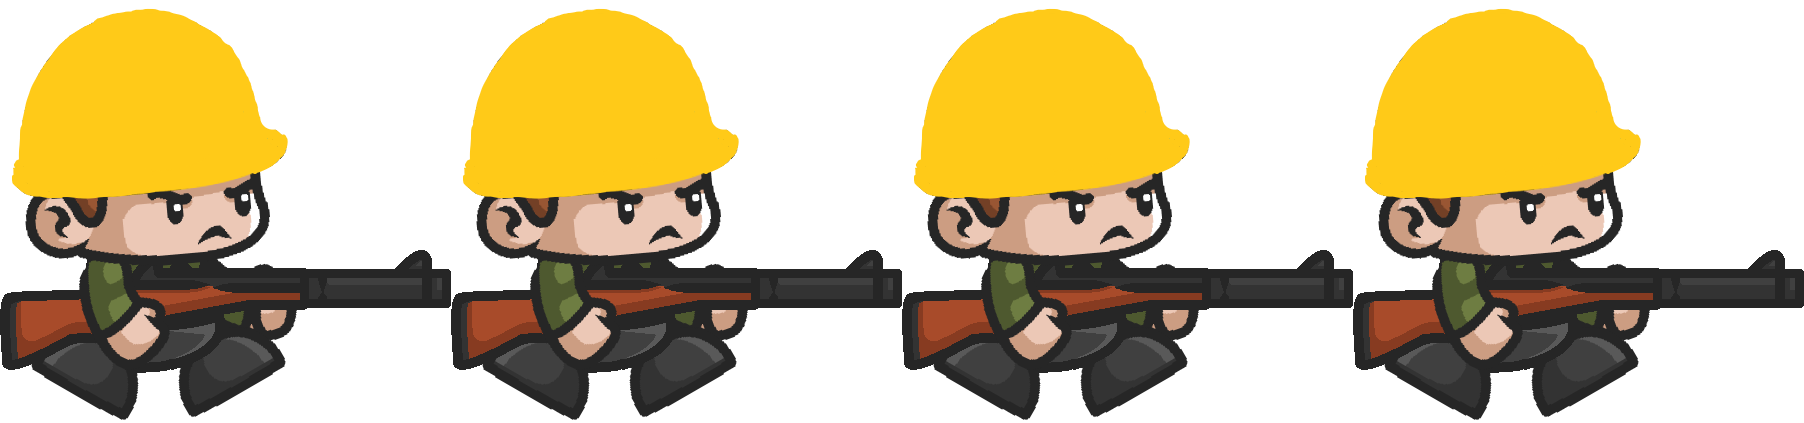
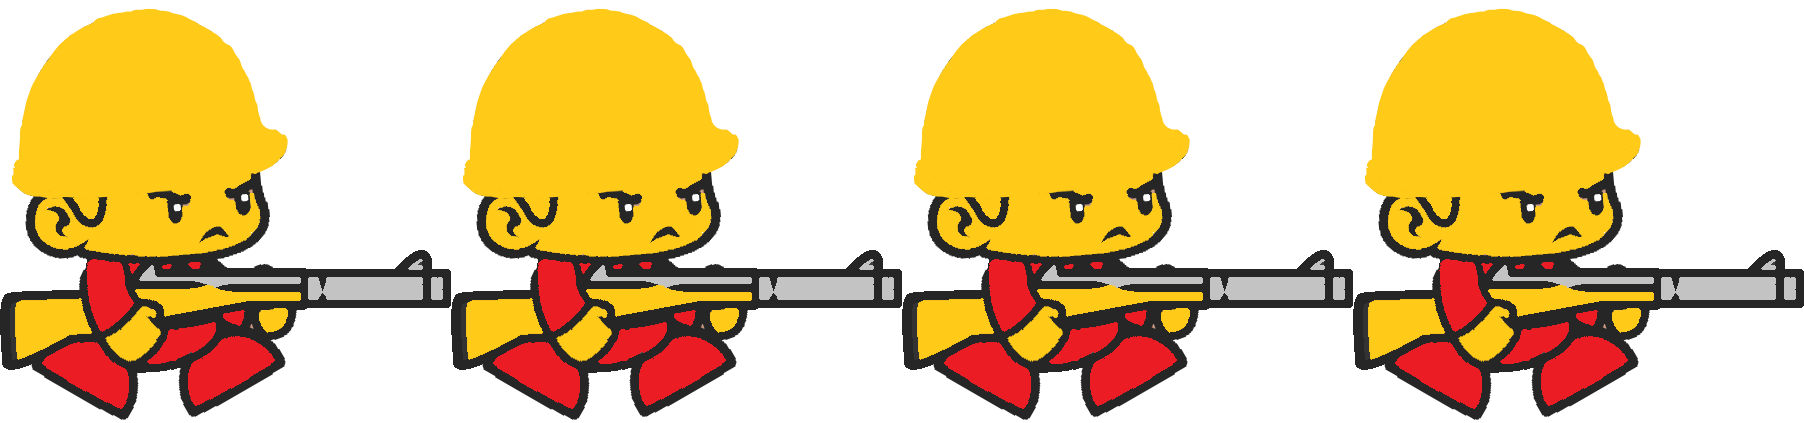
Disparo cañon funciona pero no dibuja bien

diff --git a/src/layers/GameLayer.js b/src/layers/GameLayer.js
@@ -37,6 +37,7 @@ class GameLayer extends Layer {
 
         this.disparosJugador = []
         this.disparosEnemigo = []
+        this.disparosCanon = []
         this.puntos = new Texto(0,480*0.9,320*0.07 );
 
         this.cargarMapa("res/"+nivelActual+".txt");
@@ -86,6 +87,14 @@ class GameLayer extends Layer {
                 if(nDisparo != null) {
                     this.espacio.agregarCuerpoDinamico(nDisparo);
                     this.disparosEnemigo.push(nDisparo);
+                }
+            }
+
+            if(this.enemigos[i] != null && this.enemigos[i].tieneCanon() && this.enemigos[i].estado == estados.moviendo){
+                var nDisparo = this.enemigos[i].disparar();
+                if(nDisparo != null && nDisparo.estaEnPantalla()) {
+                    this.espacio.agregarCuerpoDinamico(nDisparo);
+                    this.disparosCanon.push(nDisparo);
                 }
             }
         }
@@ -164,6 +173,12 @@ class GameLayer extends Layer {
         for (var i=0; i < this.disparosEnemigo.length; i++) {
             if(this.disparosEnemigo[i] != null)
                 this.disparosEnemigo[i].actualizar();
+
+        }
+
+        for (var i=0; i < this.disparosCanon.length; i++) {
+            if(this.disparosCanon[i] != null)
+                this.disparosCanon[i].actualizar();
 
         }
 
@@ -269,6 +284,23 @@ class GameLayer extends Layer {
 
         }
 
+        // colisiones , cañon - plataforma
+        for (var i=0; i < this.disparosCanon.length; i++){
+           for(var j = 0; j < this.bloques.length; j++){
+               if(this.disparosCanon[i] != null && this.bloques[j] != null){
+                   if(this.disparosCanon[i].saltaSobre(this.bloques[j])){
+                       this.espacio
+                           .eliminarCuerpoEstatico(this.bloques[j]);
+                       this.bloques.splice(j, 1);
+                       this.espacio
+                           .eliminarCuerpoDinamico(this.disparosCanon[i]);
+                       this.disparosCanon.splice(i, 1);
+
+
+                   }
+               }
+           }
+        }
 
 
 
@@ -315,6 +347,11 @@ class GameLayer extends Layer {
         for (var i=0; i < this.disparosEnemigo.length; i++) {
             if(this.disparosEnemigo[i] != null)
                 this.disparosEnemigo[i].dibujar(this.scrollY);
+        }
+
+        for (var i=0; i < this.disparosCanon.length; i++) {
+            if(this.disparosCanon[i] != null)
+                this.disparosCanon[i].dibujar(this.scrollY);
         }
 
         if(this.ps != null)
@@ -433,7 +470,15 @@ class GameLayer extends Layer {
                 this.espacio.agregarCuerpoDinamico(enemigo);
                 break;
             case "K":
-                var enemigoC = new EnemigoCorazon(x,y);
+                var enemigoC = new EnemigoCanonDcha(x,y);
+
+                enemigoC.y = enemigoC.y - enemigoC.alto/2;
+                // modificación para empezar a contar desde el suelo
+                this.enemigos.push(enemigoC);
+                this.espacio.agregarCuerpoDinamico(enemigoC);
+                break;
+            case "N":
+                var enemigoC = new EnemigoCanonIzq(x,y);
 
                 enemigoC.y = enemigoC.y - enemigoC.alto/2;
                 // modificación para empezar a contar desde el suelo

diff --git a/src/Res.js b/src/Res.js
@@ -13,10 +13,15 @@ var imagenes = {
     jugador : "res/jugador.png",
     fondo : "res/fondo.png",
     enemigo_derecha : "res/enemigo_derecha.png",
+    enemigo_canon_derecha : "res/enemigo_canon_derecha.png",
     enemigo_izquierda : "res/enemigo_izquierda.png",
+    enemigo_canon_izquierda : "res/enemigo_canon_izquierda.png",
     enemigo_movimiento : "res/enemigo_idle_derecha.png",
+    enemigo_canon_movimiento : "res/enemigo_canon_idle_derecha.png",
     enemigo_izquierda_movimiento : "res/enemigo_idle_izquierda.png",
+    enemigo_canon_izquierda_movimiento : "res/enemigo_canon_idle_izquierda.png",
     disparo_soldado : "res/bullet.png",
+    disparo_canon : "res/disparo_canon.png",
     disparo_enemigo : "res/disparo_enemigo.png",
     icono_puntos : "res/icono_puntos.png",
     icono_vidas : "res/icono_vidas.png",
@@ -26,7 +31,9 @@ var imagenes = {
     jugador_saltando_derecha : "res/jugador_saltando_derecha.png",
     jugador_saltando_izquierda : "res/jugador_saltando_izquierda.png",
     enemigo_morir : "res/enemigo_morir_derecha.png",
+    enemigo_canon_morir : "res/enemigo_canon_morir_derecha.png",
     enemigo_morir_izquierda : "res/enemigo_morir_izquierda.png",
+    enemigo_canon_morir_izquierda : "res/enemigo_canon_morir_izquierda.png",
     bloque_tierra : "res/plataforma.png",
     bloque_hielo : "res/bloque_hielo.png",
     bloque_metal : "res/bloque_metal.png",

diff --git a/src/modelos/EnemigoCanonDcha.js b/src/modelos/EnemigoCanonDcha.js
@@ -1,7 +1,7 @@
-class EnemigoIzquierda extends EnemigoBase {
+class EnemigoCanonDcha extends EnemigoBase {
 
     constructor(x, y) {
-        super(imagenes.enemigo_izquierda, x, y, imagenes.enemigo_izquierda_movimiento,imagenes.enemigo_morir_izquierda, 0, 10, 10)
+        super(imagenes.enemigo_canon_derecha, x, y, imagenes.enemigo_canon_movimiento,imagenes.enemigo_canon_morir, 0, 7, 6)
         this.cadenciaDisparo = 70;
         this.tiempoDisparo = 15;
     }
@@ -11,7 +11,7 @@ class EnemigoIzquierda extends EnemigoBase {
         if ( this.tiempoDisparo == 0) {
             // reiniciar Cadencia
             this.tiempoDisparo = this.cadenciaDisparo;
-            var disparo = new DisparoEnemigo(this.x, this.y, -7);
+            var disparo = new DisparoCañon(this.x, this.y, 5);
             if ( this.vx <0 ){
                 disparo.vx = disparo.vx*-1; //invertir
             }
@@ -24,7 +24,7 @@ class EnemigoIzquierda extends EnemigoBase {
     }
 
     puedeDisparar() {
-        return super.puedeDisparar(true);
+        return super.puedeDisparar(false);
     }
 
     actualizar(){
@@ -32,5 +32,9 @@ class EnemigoIzquierda extends EnemigoBase {
         if(this.tiempoDisparo > 0){
             this.tiempoDisparo  --;
         }
+    }
+
+    tieneCanon(){
+        return super.tieneCanon(true);
     }
 }

diff --git a/src/modelos/EnemigoCanonIzq.js b/src/modelos/EnemigoCanonIzq.js
@@ -1,7 +1,7 @@
-class EnemigoIzquierda extends EnemigoBase {
+class EnemigoCanonIzq extends EnemigoBase {
 
     constructor(x, y) {
-        super(imagenes.enemigo_izquierda, x, y, imagenes.enemigo_izquierda_movimiento,imagenes.enemigo_morir_izquierda, 0, 10, 10)
+        super(imagenes.enemigo_canon_izquierda, x, y, imagenes.enemigo_canon_izquierda_movimiento,imagenes.enemigo_canon_morir_izquierda, 0, 7, 6)
         this.cadenciaDisparo = 70;
         this.tiempoDisparo = 15;
     }
@@ -11,7 +11,7 @@ class EnemigoIzquierda extends EnemigoBase {
         if ( this.tiempoDisparo == 0) {
             // reiniciar Cadencia
             this.tiempoDisparo = this.cadenciaDisparo;
-            var disparo = new DisparoEnemigo(this.x, this.y, -7);
+            var disparo = new DisparoCañon(this.x, this.y, -5);
             if ( this.vx <0 ){
                 disparo.vx = disparo.vx*-1; //invertir
             }
@@ -24,7 +24,11 @@ class EnemigoIzquierda extends EnemigoBase {
     }
 
     puedeDisparar() {
-        return super.puedeDisparar(true);
+        return super.puedeDisparar(false);
+    }
+
+    tieneCanon(){
+        return super.tieneCanon(true);
     }
 
     actualizar(){

diff --git a/src/modelos/EnemigoBase.js b/src/modelos/EnemigoBase.js
@@ -1,13 +1,13 @@
 class EnemigoBase extends Modelo {
 
-    constructor(imagenIni, x, y, animacionMovimiento, animacionMorir, vxInte) {
+    constructor(imagenIni, x, y, animacionMovimiento, animacionMorir, vxInte, framesMover, framesMorir) {
         super(imagenIni, x, y)
 
         this.estado = estados.moviendo;
         this.aMover = new Animacion(animacionMovimiento,
-            this.ancho, this.alto, 6, 10);
+            this.ancho, this.alto, 6, framesMover);
         this.aMorir = new Animacion(animacionMorir,
-            this.ancho,this.alto,6,10, this.finAnimacionMorir.bind(this));
+            this.ancho,this.alto,6,framesMorir, this.finAnimacionMorir.bind(this));
 
         // Ref a la animación actual
         this.animacion = this.aMover;
@@ -43,6 +43,10 @@ class EnemigoBase extends Modelo {
             }
         }
 
+    }
+
+    tieneCanon(boo){
+        return boo;
     }
 
     dibujar (scrollY){

diff --git a/index.html b/index.html
@@ -26,10 +26,12 @@
 <script src="src/modelos/EnemigoBase.js"></script>
     <script src="src/modelos/Enemigo.js"></script>
     <script src="src/modelos/EnemigoIzquierda.js"></script>
-    <script src="src/modelos/EnemigoCorazon.js"></script>
+    <script src="src/modelos/EnemigoCanonDcha.js"></script>
+    <script src="src/modelos/EnemigoCanonIzq.js"></script>
     <script src="src/modelos/DisparoAbs.js"></script>
         <script src="src/modelos/DisparoJugador.js"></script>
         <script src="src/modelos/DisparoEnemigo.js"></script>
+        <script src="src/modelos/DisparoCañon.js"></script>
     <script src="src/modelos/Texto.js"></script>
     <script src="src/modelos/Bloque.js"></script>
     <script src="src/modelos/Avion.js"></script>

diff --git a/src/modelos/Enemigo.js b/src/modelos/Enemigo.js
@@ -1,7 +1,7 @@
 class Enemigo extends EnemigoBase {
 
     constructor(x, y) {
-        super(imagenes.enemigo_derecha, x, y, imagenes.enemigo_movimiento,imagenes.enemigo_morir, 0)
+        super(imagenes.enemigo_derecha, x, y, imagenes.enemigo_movimiento,imagenes.enemigo_morir, 0, 10, 10)
         this.cadenciaDisparo = 70;
         this.tiempoDisparo = 15;
     }

diff --git a/src/modelos/DisparoCañon.js b/src/modelos/DisparoCañon.js
@@ -1,0 +1,6 @@
+class DisparoCañon extends DisparoAbs {
+
+    constructor(x, y, velocidad) {
+        super(x, y, imagenes.disparo_canon,  velocidad);
+    }
+}
